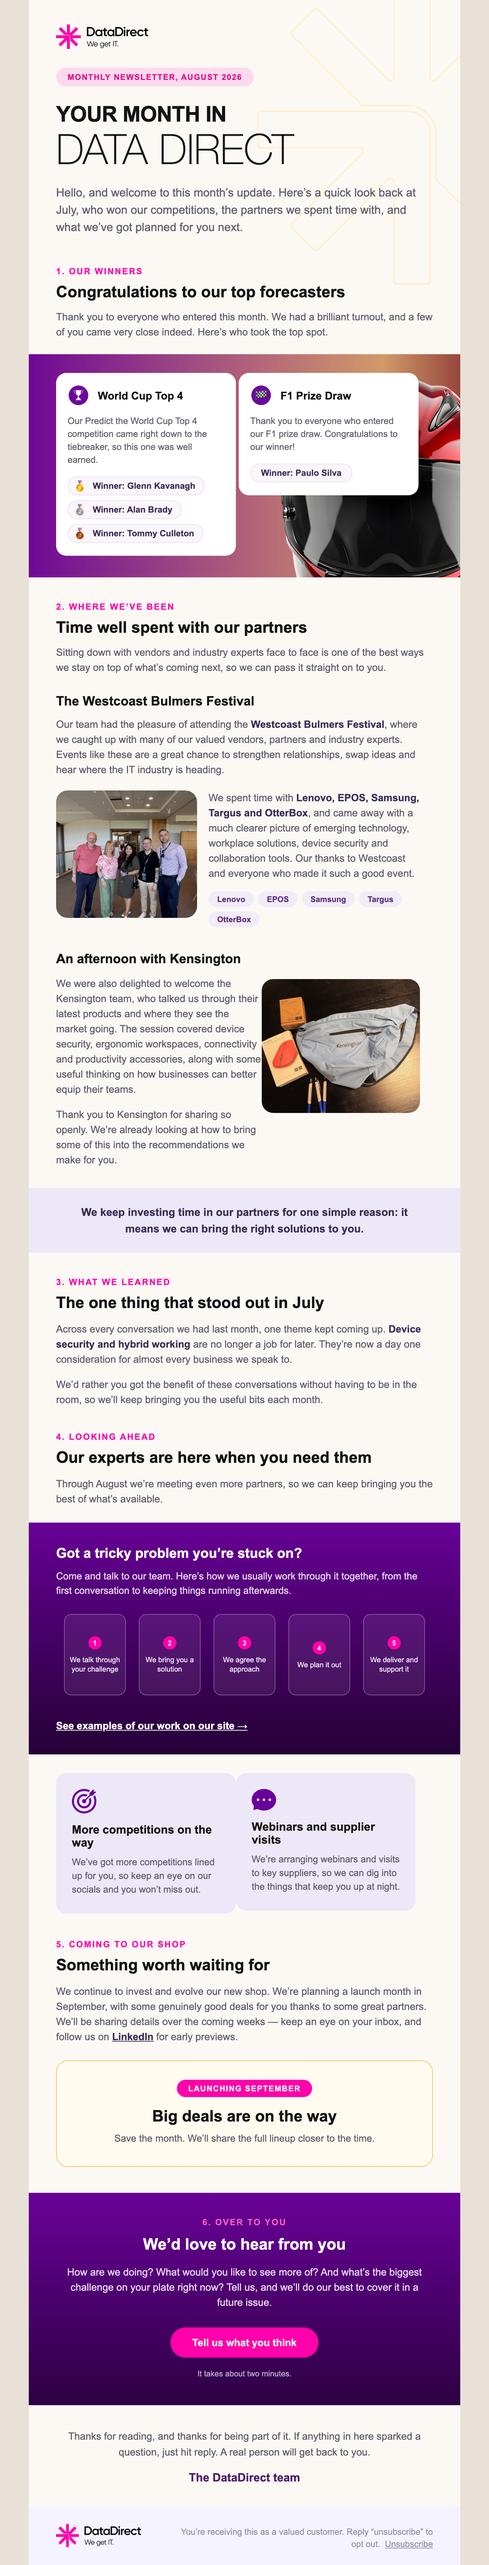
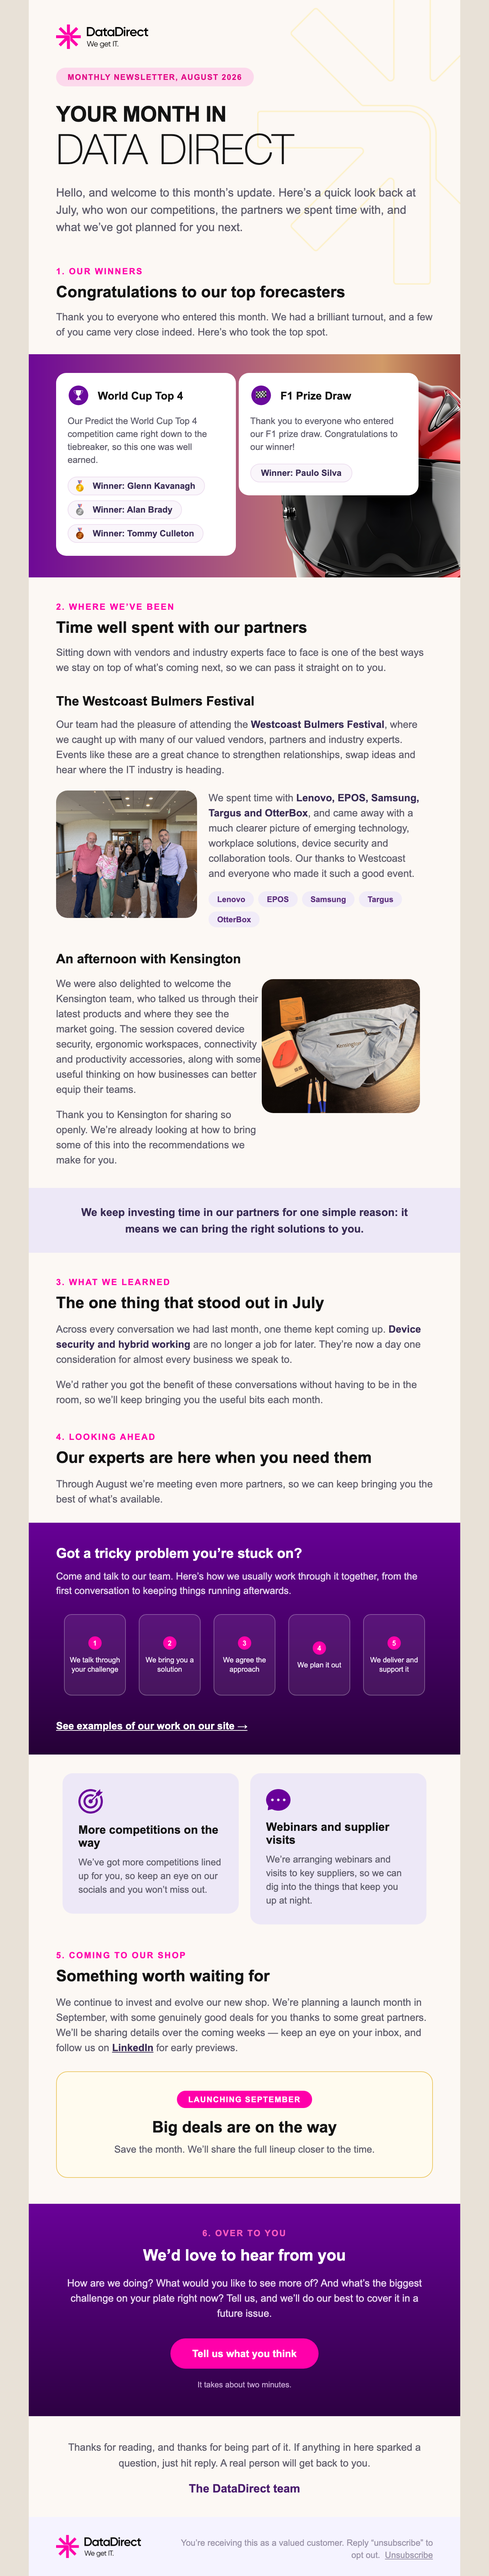
newsletter: add gap between the two info cards (left/right with spacing)

diff --git a/monthly-newsletter/index.html b/monthly-newsletter/index.html
@@ -33,6 +33,7 @@
     .lc-step { display:inline-block !important; width:44% !important; max-width:44% !important; margin:0 2.5% 14px 2.5% !important; }
     .lc-step table { width:100% !important; }
     .card-gap { height:16px !important; }
+    .info-card { margin:0 0 16px 0 !important; }
   }
 </style>
 </head>
@@ -274,18 +275,17 @@
         </tr>
         <!-- two info cards -->
         <tr>
-          <td class="px" style="padding:26px 38px 0 38px; font-size:0;">
-            <!--[if mso]><table role="presentation" width="524" cellpadding="0" cellspacing="0" border="0"><tr><td width="256" valign="top"><![endif]-->
-            <div class="stack" style="display:inline-block; width:100%; max-width:250px; min-width:220px; vertical-align:top;">
+          <td class="px" align="center" style="padding:26px 38px 0 38px; font-size:0;">
+            <!--[if mso]><table role="presentation" width="524" cellpadding="0" cellspacing="0" border="0" align="center"><tr><td width="253" valign="top"><![endif]-->
+            <div class="stack info-card" style="display:inline-block; width:100%; max-width:245px; min-width:208px; vertical-align:top; margin:0 8px 0 0;">
               <table role="presentation" width="100%" cellpadding="0" cellspacing="0" border="0" style="background-color:#ede8f7; border-radius:14px;"><tr><td style="padding:22px 22px 24px 22px;">
                 <img src="images/icon-target.png" width="34" height="30" alt="" style="display:block; margin-bottom:14px;" />
                 <div style="font-family:Arial,Helvetica,sans-serif; font-size:16px; font-weight:800; color:#141414;">More competitions on the way</div>
                 <p style="margin:8px 0 0 0; font-family:Arial,Helvetica,sans-serif; font-size:13px; line-height:19px; color:#5f5d6b;">We&rsquo;ve got more competitions lined up for you, so keep an eye on our socials and you won&rsquo;t miss out.</p>
               </td></tr></table>
             </div>
-            <!--[if mso]></td><td width="12"></td><td width="256" valign="top"><![endif]-->
-            <div class="card-gap" style="display:none; height:0; line-height:0; font-size:0;">&nbsp;</div>
-            <div class="stack" style="display:inline-block; width:100%; max-width:250px; min-width:220px; vertical-align:top;">
+            <!--[if mso]></td><td width="18">&nbsp;</td><td width="253" valign="top"><![endif]-->
+            <div class="stack info-card" style="display:inline-block; width:100%; max-width:245px; min-width:208px; vertical-align:top; margin:0 0 0 8px;">
               <table role="presentation" width="100%" cellpadding="0" cellspacing="0" border="0" style="background-color:#ede8f7; border-radius:14px;"><tr><td style="padding:22px 22px 24px 22px;">
                 <img src="images/icon-chat.png" width="34" height="32" alt="" style="display:block; margin-bottom:14px;" />
                 <div style="font-family:Arial,Helvetica,sans-serif; font-size:16px; font-weight:800; color:#141414;">Webinars and supplier visits</div>
